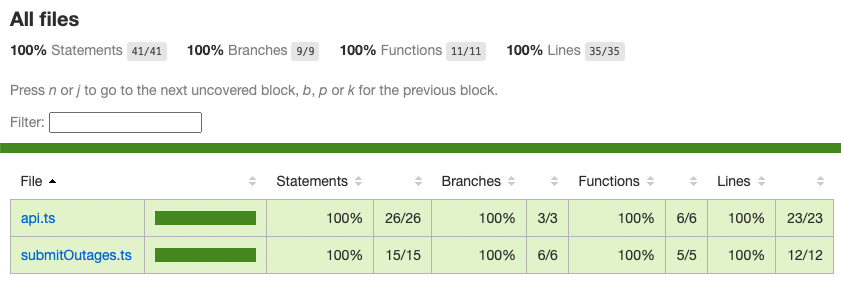
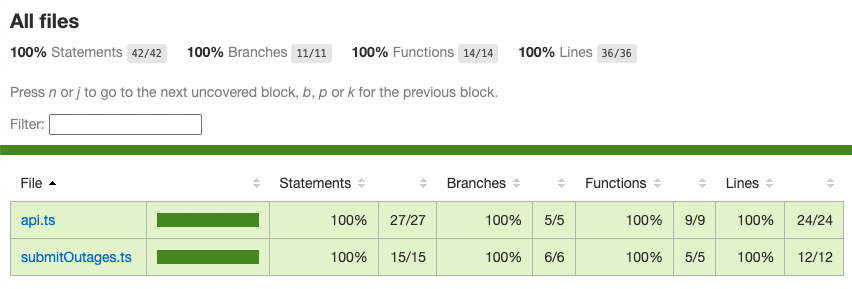
add 500 retries with backoff

diff --git a/src/api.ts b/src/api.ts
@@ -6,20 +6,47 @@ const headers: RequestInit["headers"] = {
   "x-api-key": "EltgJ5G8m44IzwE6UN2Y4B4NjPW77Zk6FJK3lL23",
 };
 
-export const getOutages = async (): Promise<
-  paths["/outages"]["get"]["responses"][200]["content"]["application/json"]
-> => {
-  const response = await fetch(`${basePath}/outages`, {
-    method: "GET",
+class ApiError extends Error {
+  public status: number;
+
+  constructor(status: number, message: string) {
+    super(`Request failed: ${status} ${message}`);
+    this.status = status;
+    this.name = "ApiError";
+  }
+}
+
+const apiWrapper = async (
+  path: string,
+  options: {
+    method: RequestInit["method"];
+    body?: string;
+  },
+  retries = 3,
+  backoff = 300
+) => {
+  const response = await fetch(`${basePath}${path}`, {
+    ...options,
     headers,
   });
 
-  const body = await response.json();
+  const responseBody = await response.json();
   if (!response.ok) {
-    throw new Error(`Request failed: ${response.status} ${body.message}`);
+    // retry 500s
+    if (response.status >= 500 && retries > 0) {
+      await new Promise((resolve) => setTimeout(resolve, backoff));
+      return apiWrapper(path, options, retries - 1, backoff * 2);
+    }
+    throw new ApiError(response.status, responseBody.message);
   }
 
-  return body;
+  return responseBody;
+};
+
+export const getOutages = async (): Promise<
+  paths["/outages"]["get"]["responses"][200]["content"]["application/json"]
+> => {
+  return apiWrapper("/outages", { method: "GET" });
 };
 
 export const getSiteInfo = async (
@@ -27,31 +54,15 @@ export const getSiteInfo = async (
 ): Promise<
   paths["/site-info/{siteId}"]["get"]["responses"][200]["content"]["application/json"]
 > => {
-  const response = await fetch(`${basePath}/site-info/${site}`, {
-    method: "GET",
-    headers,
-  });
-
-  const body = await response.json();
-  if (!response.ok) {
-    throw new Error(`Request failed: ${response.status} ${body.message}`);
-  }
-
-  return body;
+  return apiWrapper(`/site-info/${site}`, { method: "GET" });
 };
 
 export const postSiteOutages = async (
   site: string,
   request: paths["/site-outages/{siteId}"]["post"]["requestBody"]["content"]["application/json"]
 ): Promise<void> => {
-  const response = await fetch(`${basePath}/site-outages/${site}`, {
+  await apiWrapper(`/site-outages/${site}`, {
     method: "POST",
     body: JSON.stringify(request),
-    headers,
   });
-
-  const body = await response.json();
-  if (!response.ok) {
-    throw new Error(`Request failed: ${response.status} ${body.message}`);
-  }
 };

diff --git a/src/api.test.ts b/src/api.test.ts
@@ -5,6 +5,10 @@ const { Response } = jest.requireActual("node-fetch");
 jest.mock("node-fetch", () => jest.fn());
 
 describe("api", () => {
+  afterEach(() => {
+    jest.clearAllMocks();
+  });
+
   describe("getOutages", () => {
     it("should return the response", async () => {
       (fetch as jest.MockedFunction<typeof fetch>).mockResolvedValueOnce(
@@ -20,6 +24,51 @@ describe("api", () => {
       );
       await expect(getOutages()).rejects.toEqual(
         new Error("Request failed: 400 error message")
+      );
+    });
+
+    it("should retry 500 errors", async () => {
+      (fetch as jest.MockedFunction<typeof fetch>).mockResolvedValueOnce(
+        new Response(JSON.stringify({ message: "error message" }), {
+          status: "500",
+        })
+      );
+      (fetch as jest.MockedFunction<typeof fetch>).mockResolvedValueOnce(
+        new Response(JSON.stringify("response body"))
+      );
+      expect(await getOutages()).toEqual("response body");
+      expect(fetch as jest.MockedFunction<typeof fetch>).toHaveBeenCalledTimes(
+        2
+      );
+    });
+
+    it("should retry 500 errors up to 3 times", async () => {
+      (fetch as jest.MockedFunction<typeof fetch>).mockResolvedValueOnce(
+        new Response(JSON.stringify({ message: "error message" }), {
+          status: "500",
+        })
+      );
+      (fetch as jest.MockedFunction<typeof fetch>).mockResolvedValueOnce(
+        new Response(JSON.stringify({ message: "error message" }), {
+          status: "500",
+        })
+      );
+      (fetch as jest.MockedFunction<typeof fetch>).mockResolvedValueOnce(
+        new Response(JSON.stringify({ message: "error message" }), {
+          status: "500",
+        })
+      );
+      (fetch as jest.MockedFunction<typeof fetch>).mockResolvedValueOnce(
+        new Response(JSON.stringify({ message: "error message" }), {
+          status: "500",
+        })
+      );
+
+      await expect(getOutages()).rejects.toEqual(
+        new Error("Request failed: 500 error message")
+      );
+      expect(fetch as jest.MockedFunction<typeof fetch>).toHaveBeenCalledTimes(
+        4
       );
     });
   });

diff --git a/README.md b/README.md
@@ -28,6 +28,10 @@ I used [`openapi-typescript`](https://www.npmjs.com/package/openapi-typescript) 
 
 [`index.ts`](./src/index.ts) just calls the `submitOutages` function and can be run with `ts-node`.
 
+### Bonus requirement for 500s
+
+Assuming that if the api returns a 500 it makes sense to retry the call, I added some code to retry those calls up to 3 times, with exponential backoff starting at 300ms.
+
 ## Tests
 
 ![Coverage report](./coverage.png)
